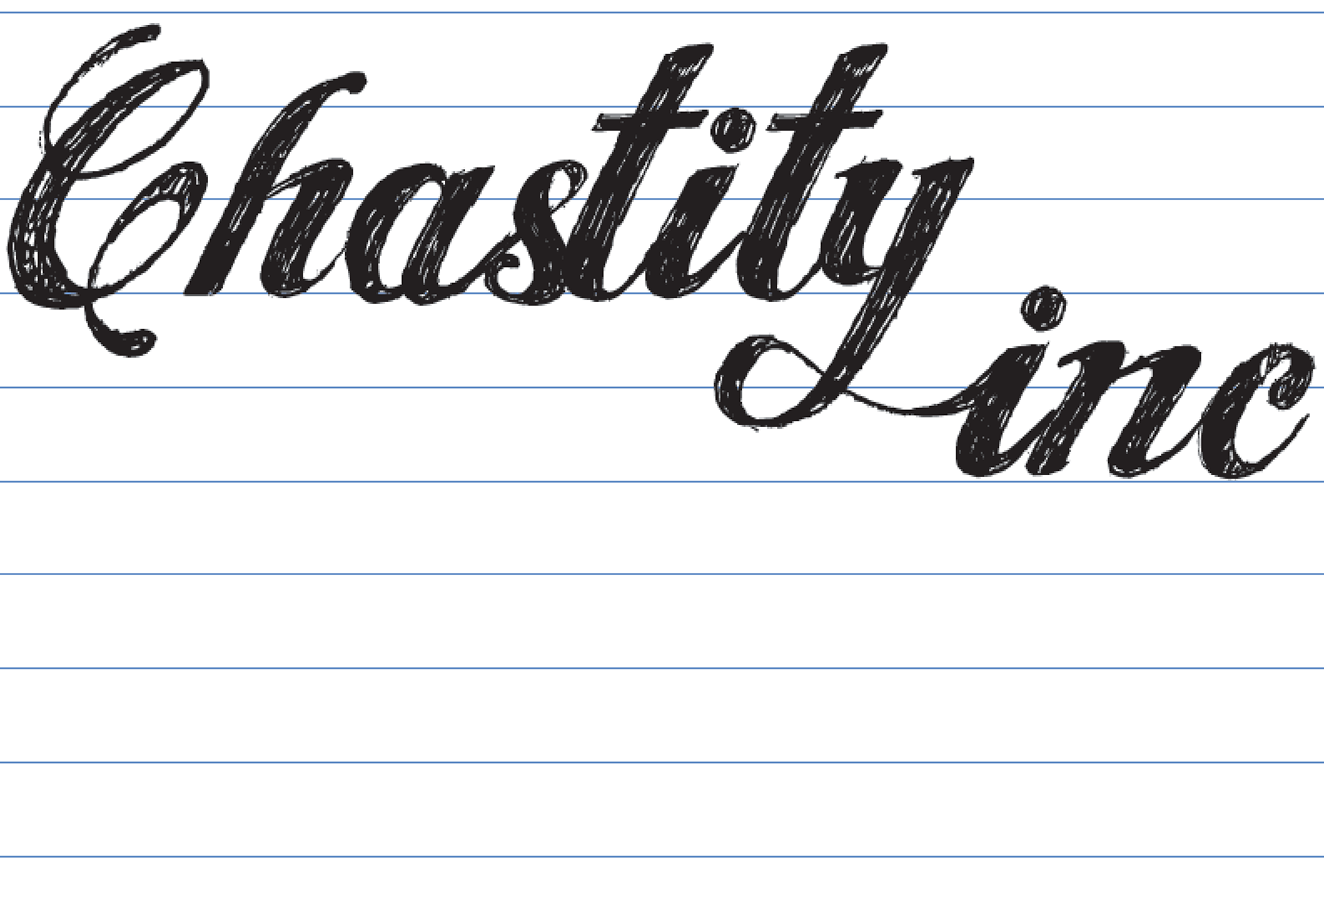
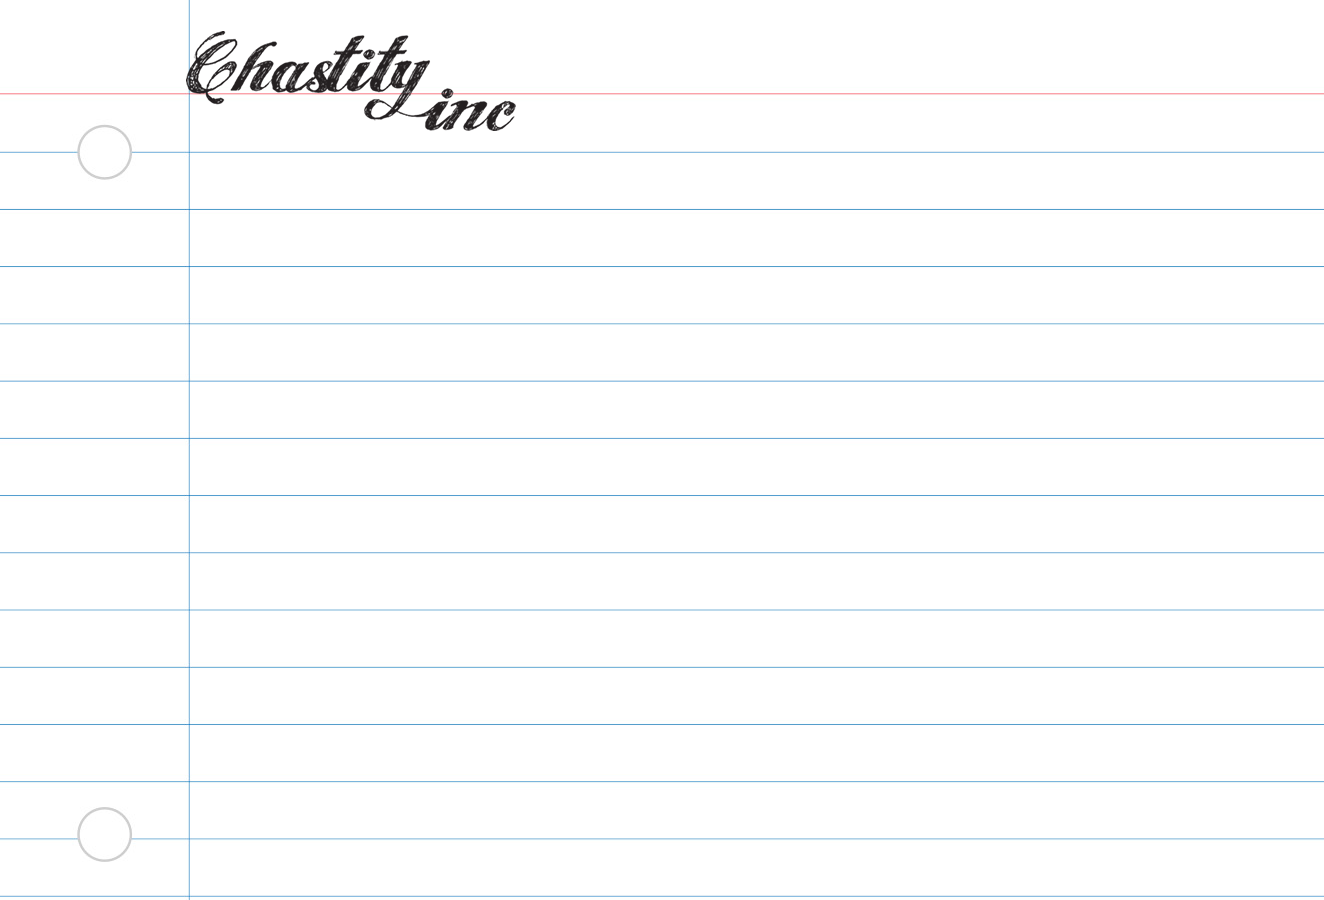
Changed background to fit

diff --git a/css/style.css b/css/style.css
@@ -24,7 +24,7 @@
 	body
 	{
 		position: relative;
-		background: url('../images/bg.png');
+		background: url('../images/bg2.png');
 		background-size: cover;
 		color: #999;
 		color: rgba(255,255,255,0.6);
